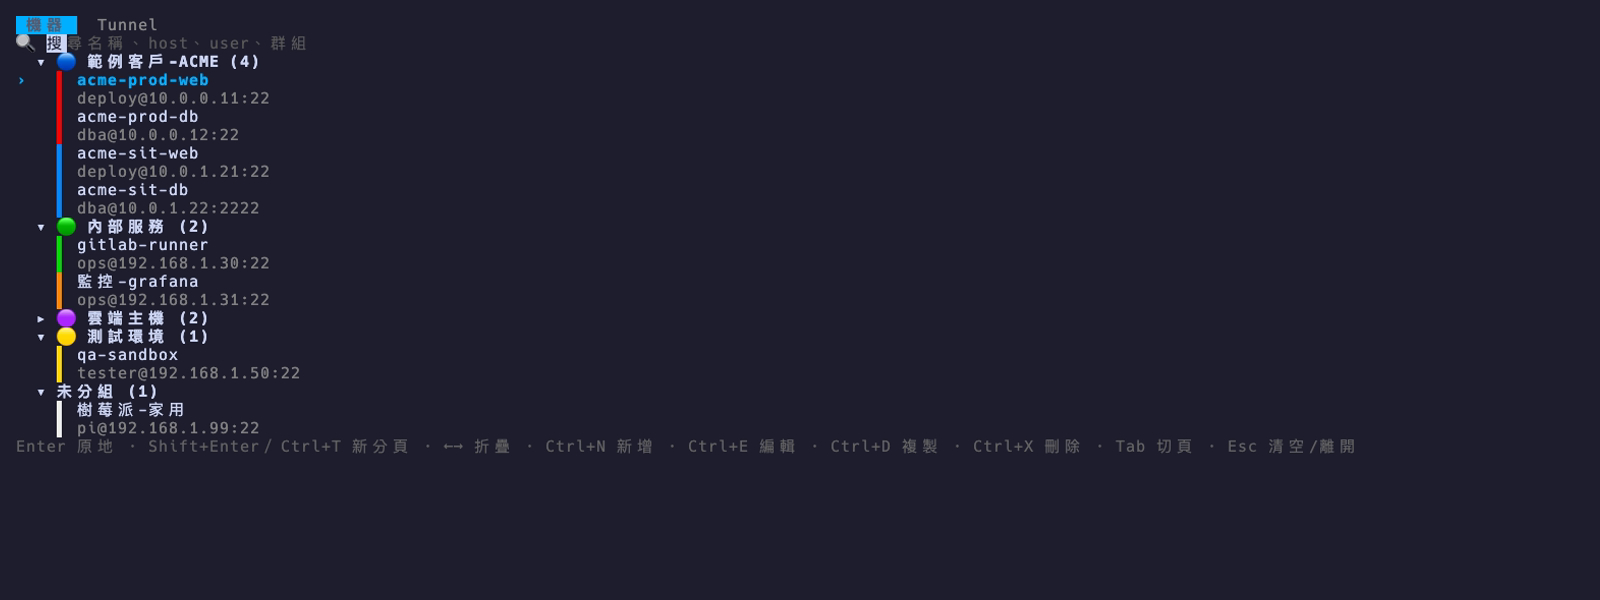
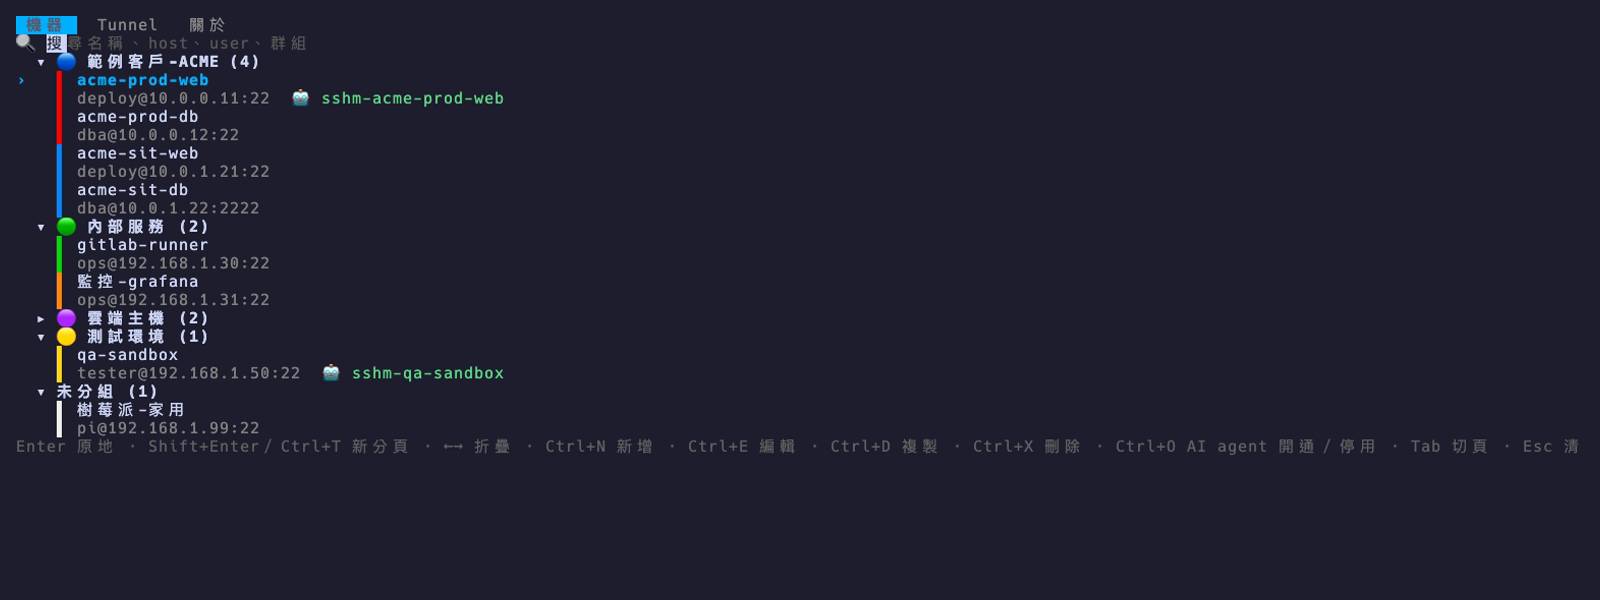
docs: README 跟上 v0.2.0～v0.4.0，重拍截圖並新增 CHANGELOG
- 開頭介紹補上 Tunnel、開通給 AI agent、關於頁自我更新，並連到 CHANGELOG.md
- 新增 CHANGELOG.md 整理 v0.1.0～v0.4.0 各版新增與修正；README 加「版本紀錄」段指向它
- 安裝步驟 3 之後與機器清單按鍵表註明 Ctrl+O 的兩種用途（zsh 提示列叫出 sshm、清單內開通 AI agent）
- 「關於頁與更新」段插入新的 about-page.png
- 重拍 host-list（含 🤖 別名標記）、host-form（說明列有 Ctrl+R）；search、tunnel-page 因分頁列多了「關於」一併更新
- demo-env.sh：暫存目錄固定在 /private/tmp、go build 後把 HOME 換成臨時目錄（不讀寫 ~/.ssh）、以最近 tag 當版本號、預寫更新檢查快取（錄製不連 GitHub）
- demo hosts.json 為兩台虛構機器加上展示用 agent 欄位；sshm.tape 新增關於頁截圖

diff --git a/CHANGELOG.md b/CHANGELOG.md
@@ -1,0 +1,46 @@
+# 版本紀錄
+
+每一版新增與修正的重點。完整的變更見 [GitHub Releases](https://github.com/mark22013333/sshm/releases) 或 `git log`。
+
+## v0.4.0（2026-10-13）
+
+新增
+
+- TUI 新增「關於」頁（Tab 輪流切換「機器」→「Tunnel」→「關於」），列出目前版本與最新版本、hosts.json 等檔案的實際位置、各頁快捷鍵與 AI agent 用法摘要。
+- 自我更新：啟動時在背景查 GitHub 最新釋出版（一天最多一次，失敗不顯示）；有新版時機器頁狀態列會提示，在「關於」頁按 U 下載、比對 SHA-256 後取代執行檔。開發版、目錄不可寫或非 macOS 時改列手動更新指令。
+
+修正
+
+- 更新途中被中斷而留在執行檔目錄的暫存檔，會在下次啟動或下次更新時清掉；替換執行檔後確保寫入落盤。
+- 從「關於」頁切回機器頁時清掉狀態訊息，不再蓋住新版提示。
+
+## v0.3.0（2026-10-13）
+
+新增
+
+- 給 AI agent 使用：`sshm agent enable／disable／list／guide` 子指令，用 sshm 存的密碼登入一次，替機器裝上專用金鑰並寫好 ssh 別名，之後 agent 只需 `ssh <別名>`、不碰密碼。
+- 機器清單按 Ctrl+O 開通／停用選取的機器（按 y 確認），已開通的機器顯示 `🤖 別名`。
+
+修正
+
+- 密碼改經環境變數交給 expect 腳本，原地連線、Orca 分頁、Tunnel 與 agent 開通的行程參數都不再含密碼。
+- 原地連線時，環境中殘留的同名變數會被新值取代，不再因讀到舊密碼而登入失敗。
+- 開通給 agent 的安全性與可靠度：遠端 `authorized_keys` 以公鑰本體辨識自己那一行（不會誤刪別台電腦或手寫的行）、改為原子寫入；ssh 別名設定寫入前先做白名單驗證並用 `ssh -G` 解析；記錄公鑰裝過的位置，機器改了 host／port／user 後停用時連舊位置一起清除；同一台被兩個 sshm 同時開通時不留孤兒金鑰。
+- 文件說明安全界線：確認關卡只防誤開通，不防刻意繞過。
+
+## v0.2.0（2026-10-13）
+
+新增
+
+- 機器表單在認證方式為 password 時，可按 Ctrl+R 切換顯示／隱藏密碼（每次開表單預設隱藏）。
+
+## v0.1.0（2026-10-10）
+
+第一個公開版本。
+
+- 機器清單 TUI：依群組折疊、打字即搜尋；Enter 原地連線，在 Orca 裡按 Shift+Enter／Ctrl+T 開新分頁連線。
+- 密碼登入由內嵌 expect 腳本自動送一次密碼；提示必須指名本次的 user@host（帳號區分大小寫），主機欄位不接受 `@`。
+- zsh 提示列按 Ctrl+O 叫出 sshm（`sshm zsh-widget`）。
+- 從 iTerm2 匯入（`sshm import-iterm`）、JSON 匯出／匯入（`sshm export`／`sshm import`）。
+- Tunnel 頁：管理 `-L`／`-R`／`-D` 轉送，在 Orca 分頁中啟動／停止並顯示狀態燈；Ctrl+G 前往該 tunnel 的分頁；ssh 結束後分頁 3 秒自動關閉。
+- 以 GoReleaser 發佈 macOS（Apple Silicon／Intel）執行檔，可用 `curl` 一行安裝。

diff --git a/docs/tapes/README.md b/docs/tapes/README.md
@@ -13,7 +13,7 @@
 在 repo 根目錄執行：
 
 ```sh
-vhs docs/tapes/sshm.tape          # host-list、search、host-form、tunnel-page、tunnel-form
+vhs docs/tapes/sshm.tape          # host-list、search、host-form、tunnel-page、tunnel-form、about-page
 vhs docs/tapes/import-iterm.tape  # import-iterm
 ```
 
@@ -23,10 +23,10 @@ vhs docs/tapes/import-iterm.tape  # import-iterm
 
 每個 tape 開頭（隱藏畫面）會執行 `. docs/tapes/demo-env.sh`，它會：
 
-1. 用 `mktemp -d` 建一個全新的暫存目錄，把 `XDG_CONFIG_HOME` 指過去，所以不會讀寫你的 `~/.config/sshm`。
-2. 複製 `demo/hosts.json`（虛構的 4 個群組、10 台機器、3 條 tunnel，密碼一律 `demo-only`）與 `demo/state.json`（記錄「ACME PROD DB」的 handle）。
+1. 用 `mktemp -d` 在 `/tmp` 建一個全新的暫存目錄（解析成 `/private/tmp/sshm-demo.XXXXXX`，讓「關於」頁顯示的路徑不含使用者名稱），把 `XDG_CONFIG_HOME` 指過去，`go build` 之後再把 `HOME` 換成其中的 `home/`，所以不會讀寫你的 `~/.config/sshm` 與 `~/.ssh`。
+2. 複製 `demo/hosts.json`（虛構的 4 個群組、10 台機器、3 條 tunnel，密碼一律 `demo-only`）與 `demo/state.json`（記錄「ACME PROD DB」的 handle）。hosts.json 裡 acme-prod-web 與 qa-sandbox 帶有展示用的 `agent` 欄位（清單顯示 `🤖 別名`），金鑰路徑的 `__DEMO_HOME__` 會換成臨時 HOME；沒有真的產生金鑰或開通任何機器。
 3. 把假的 `demo/orca` 放進 `ORCA_CLI_BIN_DIR`，並設 `TERM_PROGRAM=Orca`，讓 sshm 以為在 Orca 中。假 orca 對 `terminal list` 回傳含上述 handle、`hostScope` 完整的 JSON，所以 Tunnel 頁會顯示一個 ● 與兩個 ○；其他指令一律回 `{"ok":true}`，呼叫紀錄寫在暫存目錄的 `orca-calls.log`。
-4. `go build` 出 sshm 並放到 `PATH` 最前面。
+4. `go build` 出 sshm（以 `git describe --tags --abbrev=0` 的 tag 當版本號）並放到 `PATH` 最前面，再預寫當天的 `update-check.json`，所以「關於」頁顯示「已是最新版」，錄製時不連 GitHub。
 
 iTerm2 匯入畫面讀的是 `testdata/iterm/iterm2-fixture.plist`（合成資料），最後按 Esc 取消、不寫入。
 
